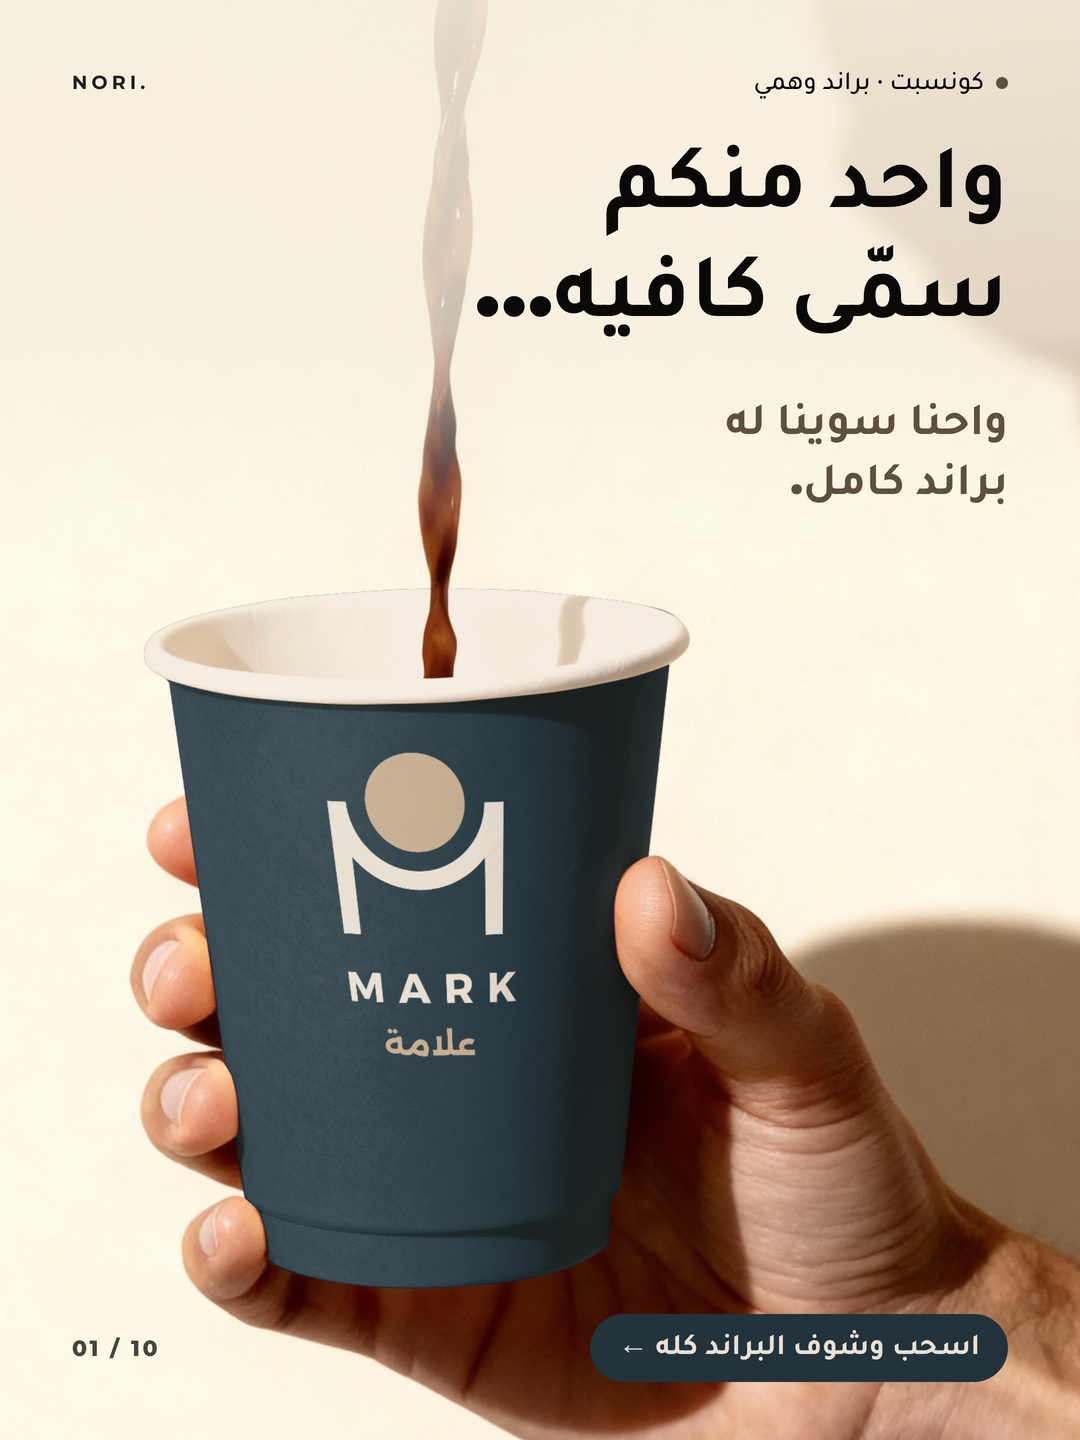
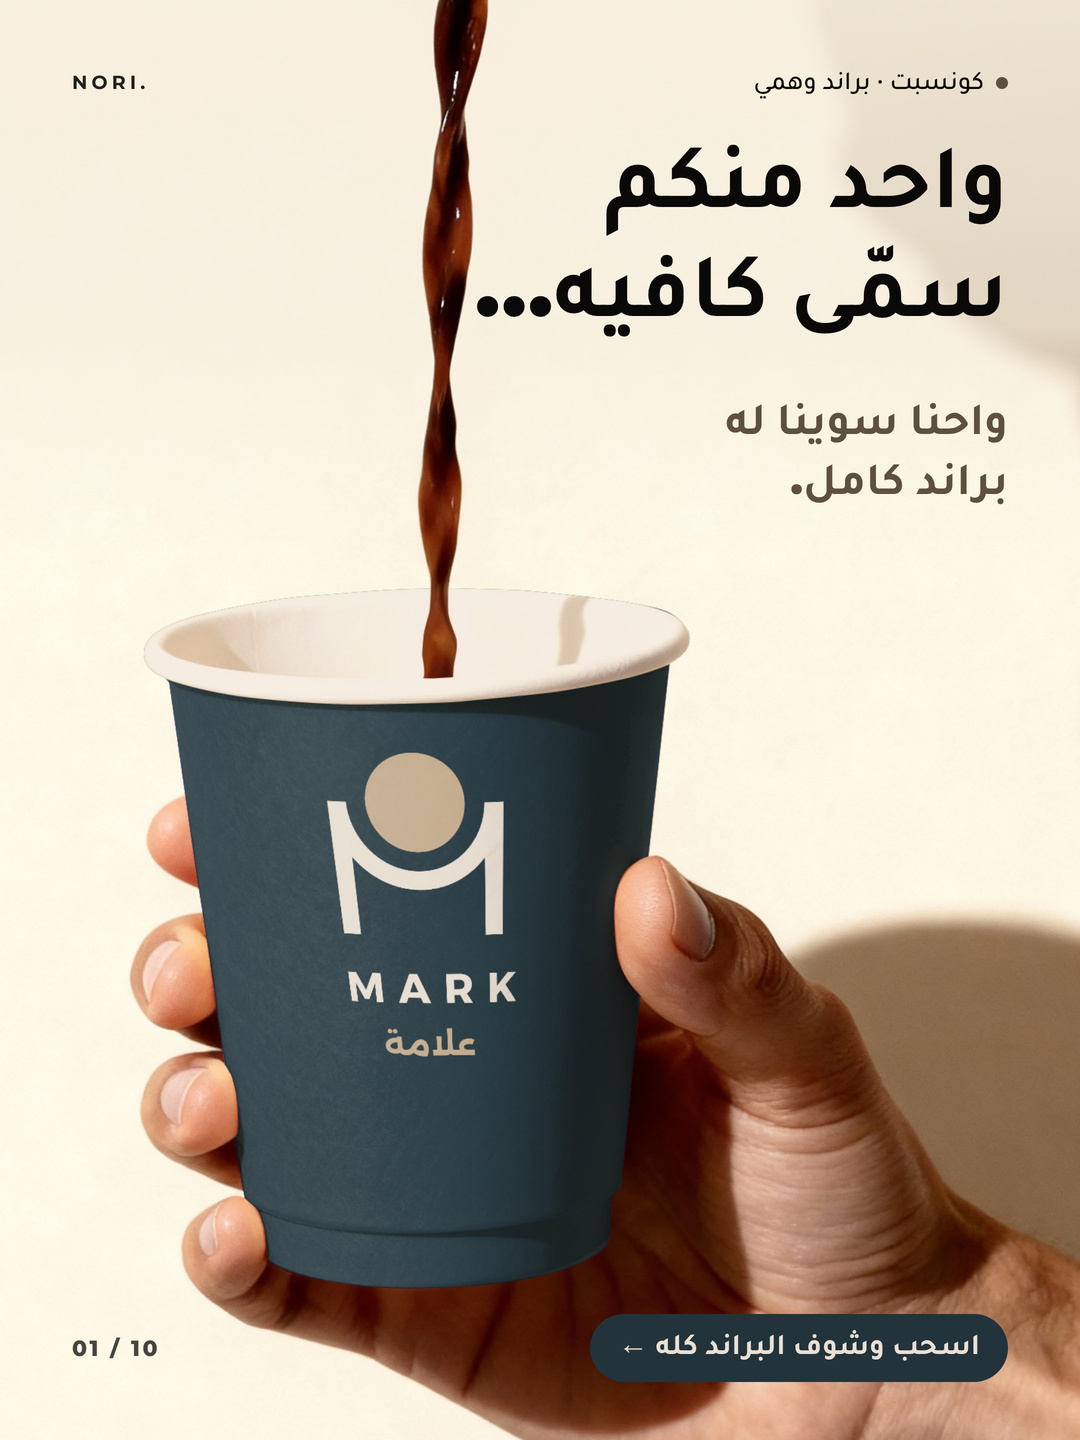
MARK cover: keep the coffee stream brown from the top
Claude-Session: https://claude.ai/code/session_01HCCxgGry64SvZNyLkRHRNW

Changed region(s): [[0.3667, 0.0, 0.4583, 0.375]]

diff --git a/concepts/2026-11-17-mark/src/slides.tpl.html b/concepts/2026-11-17-mark/src/slides.tpl.html
@@ -22,8 +22,7 @@ h1 em{font-style:normal;color:var(--tan)}.lt h1 em{color:var(--brown)}
 
 <!-- 01 cover -->
 <div class="s lt" id="s1" data-shot>
-  <div class="full" style="background-image:url(mock/hand.jpg);background-size:auto 1700px;background-position:-725px -76px;background-repeat:no-repeat"></div>
-  <div class="shade" style="background:linear-gradient(180deg,rgba(247,238,222,.92) 0,rgba(247,238,222,.8) 330px,rgba(247,238,222,0) 560px)"></div>
+  <div class="full" style="background-image:url(mock/hand_cover.jpg);background-size:auto 1700px;background-position:-725px -76px;background-repeat:no-repeat"></div>
   <div class="top"><div class="r">كونسبت · براند وهمي</div><div class="l">NORI.</div></div>
   <h1 style="top:140px;font-size:92px">واحد منكم<br>سمّى كافيه…</h1>
   <div class="sub" style="top:398px;font-size:46px;font-weight:800;opacity:1;color:var(--brown);left:auto;width:520px;line-height:1.3">واحنا سوينا له<br>براند كامل.</div>
